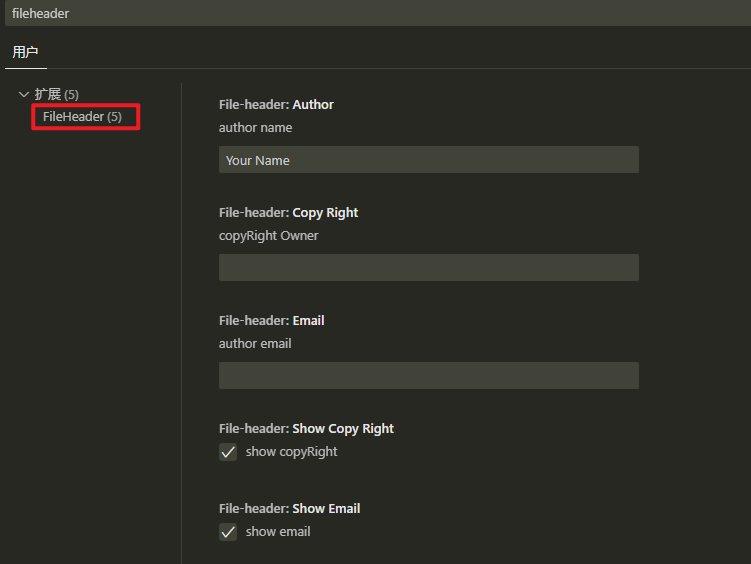
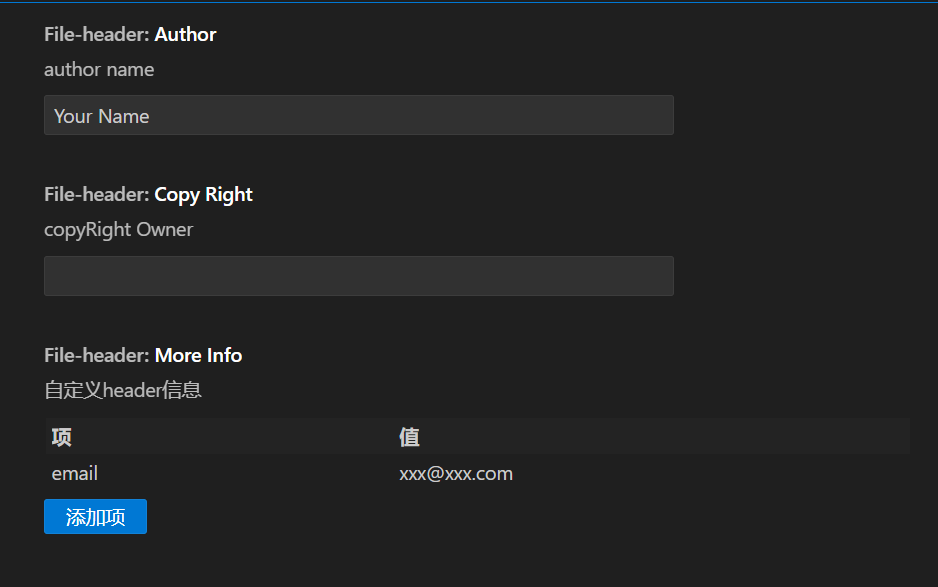
docs(README): 更新设置页面截图
- 移除了 README.md 中的发布说明部分
- 更新了设置页面截图，详见 images/setting.png

diff --git a/README.md b/README.md
@@ -34,10 +34,3 @@
 
 ![setting](images/setting.png)
 
-## Release Notes
-
-### 0.0.1
-
-- 支持添加文件头注释: `ctrl+alt+h`
-- 支持更新文件头注释: `ctrl+alt+u`
-- 支持多语言
